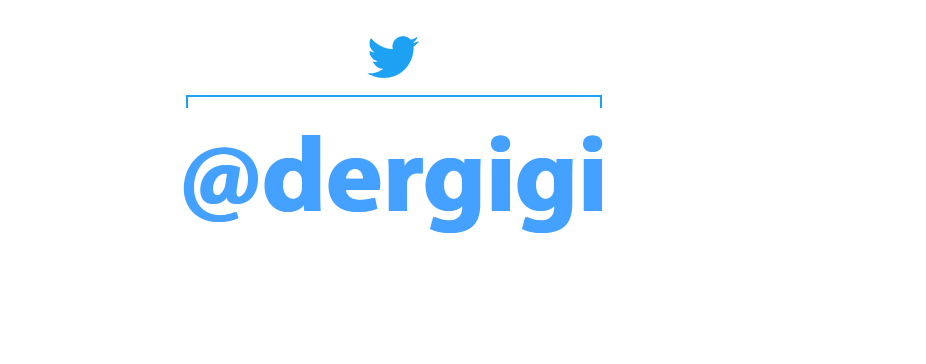
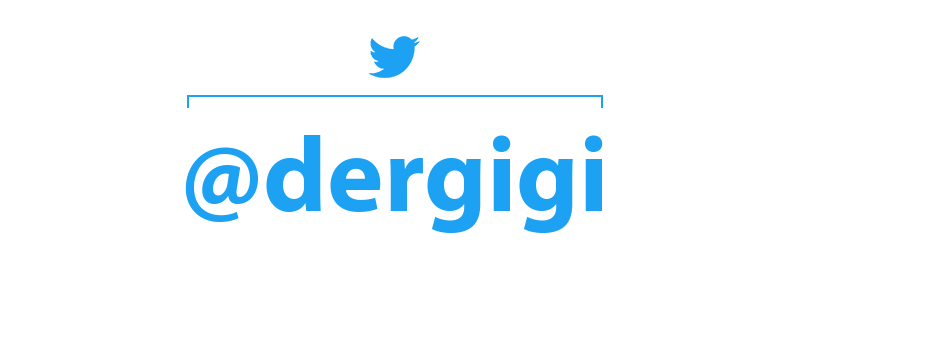
Layout and performance fixes (#13)
* Fix colors in contact image

* Replace non-breaking whitespaces

* Replace all non-breaking whitespaces

* Reduce garden resolution and image size

* Use bitcoin version of David

* Add invisible cover image to posts

Otherwise preview images (for e.g. pocket) are wrong

* Update contact image

Changed region(s): [[0.1814, 0.3626, 0.6652, 0.6648], [0.3931, 0.0907, 0.4536, 0.1511], [0.3931, 0.1813, 0.4233, 0.2115]]

diff --git a/_layouts/post.html b/_layouts/post.html
@@ -14,7 +14,9 @@ layout: default
     {% if page.image %}
       <div class="post__img">
         <div>
-          <figure class="absolute-bg" style="background-image: url('{{ page.image }}');"></figure>
+          <figure class="absolute-bg" style="background-image: url('{{ page.image }}');">
+            <img src="{{ page.image }}" style="display: none"/>
+          </figure>
         </div>
       </div>
     {% endif %}
